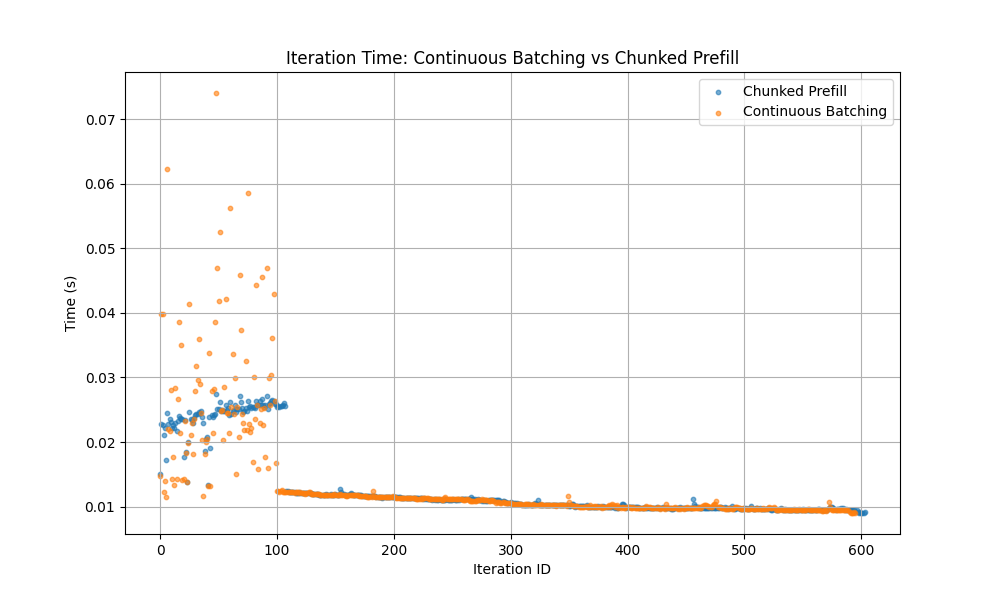
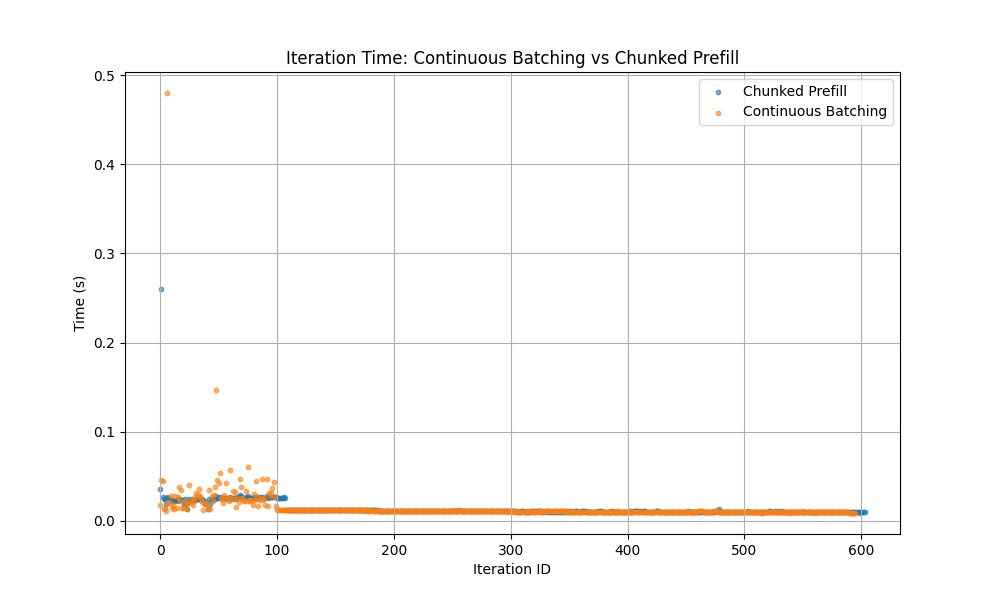
feat: hw4 section1 q3 - benchmark added

diff --git a/assignment4/Section1/q3_benchmark.py b/assignment4/Section1/q3_benchmark.py
@@ -1,0 +1,20 @@
+import os;
+os.environ['CUDA_VISIBLE_DEVICES'] = '4'
+import time
+from chunked_engine import Engine
+from chunked_scheduler import Scheduler, InputRequest
+
+engine = Engine()
+ids = engine.tokenizer(' '.join(['hello'] * 600), return_tensors='pt').input_ids[0]
+prompt = engine.tokenizer.decode(ids[:512], skip_special_tokens=True)
+
+scheduler = Scheduler(engine, token_batch_size=512)
+for _ in range(100):
+    scheduler.add_req(InputRequest(prompt, output_len=512))
+
+start = time.time()
+while not scheduler.finished():
+    scheduler.run()
+elapsed = time.time() - start
+print(f'ETE Time: {elapsed:.4f} s')
+print(f'Output throughput: {100*512/elapsed:.2f} tokens/s')
